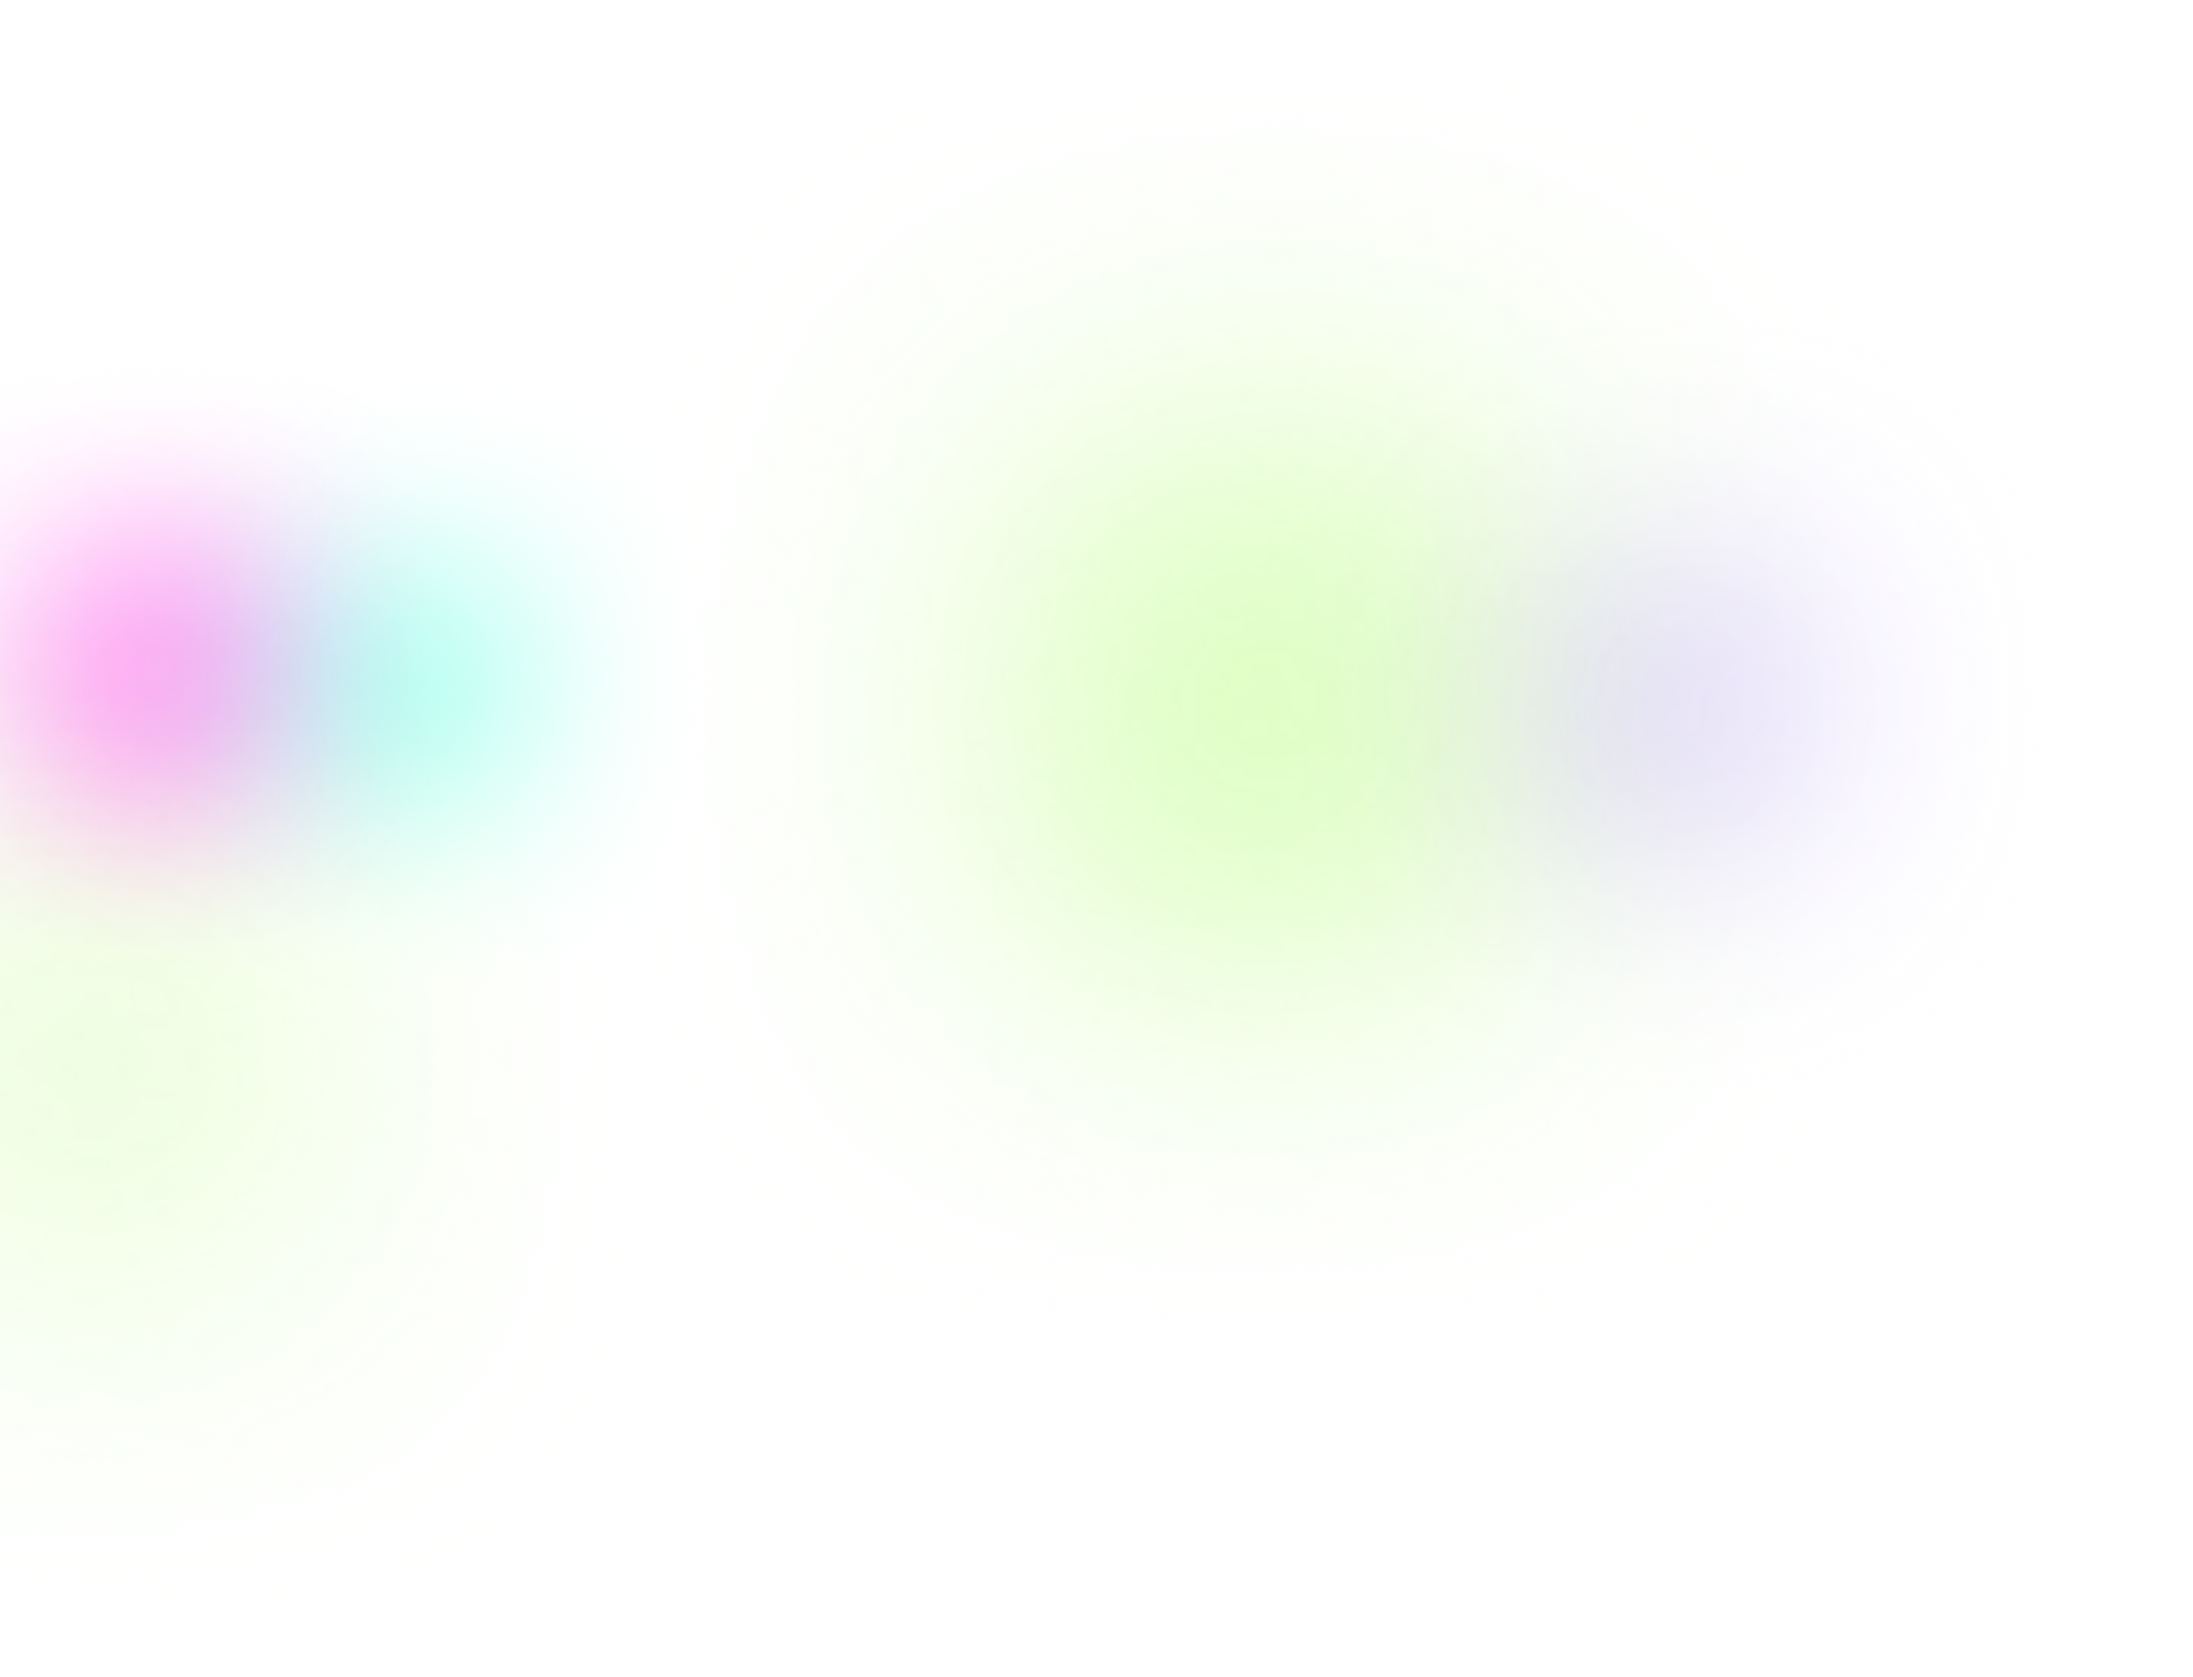
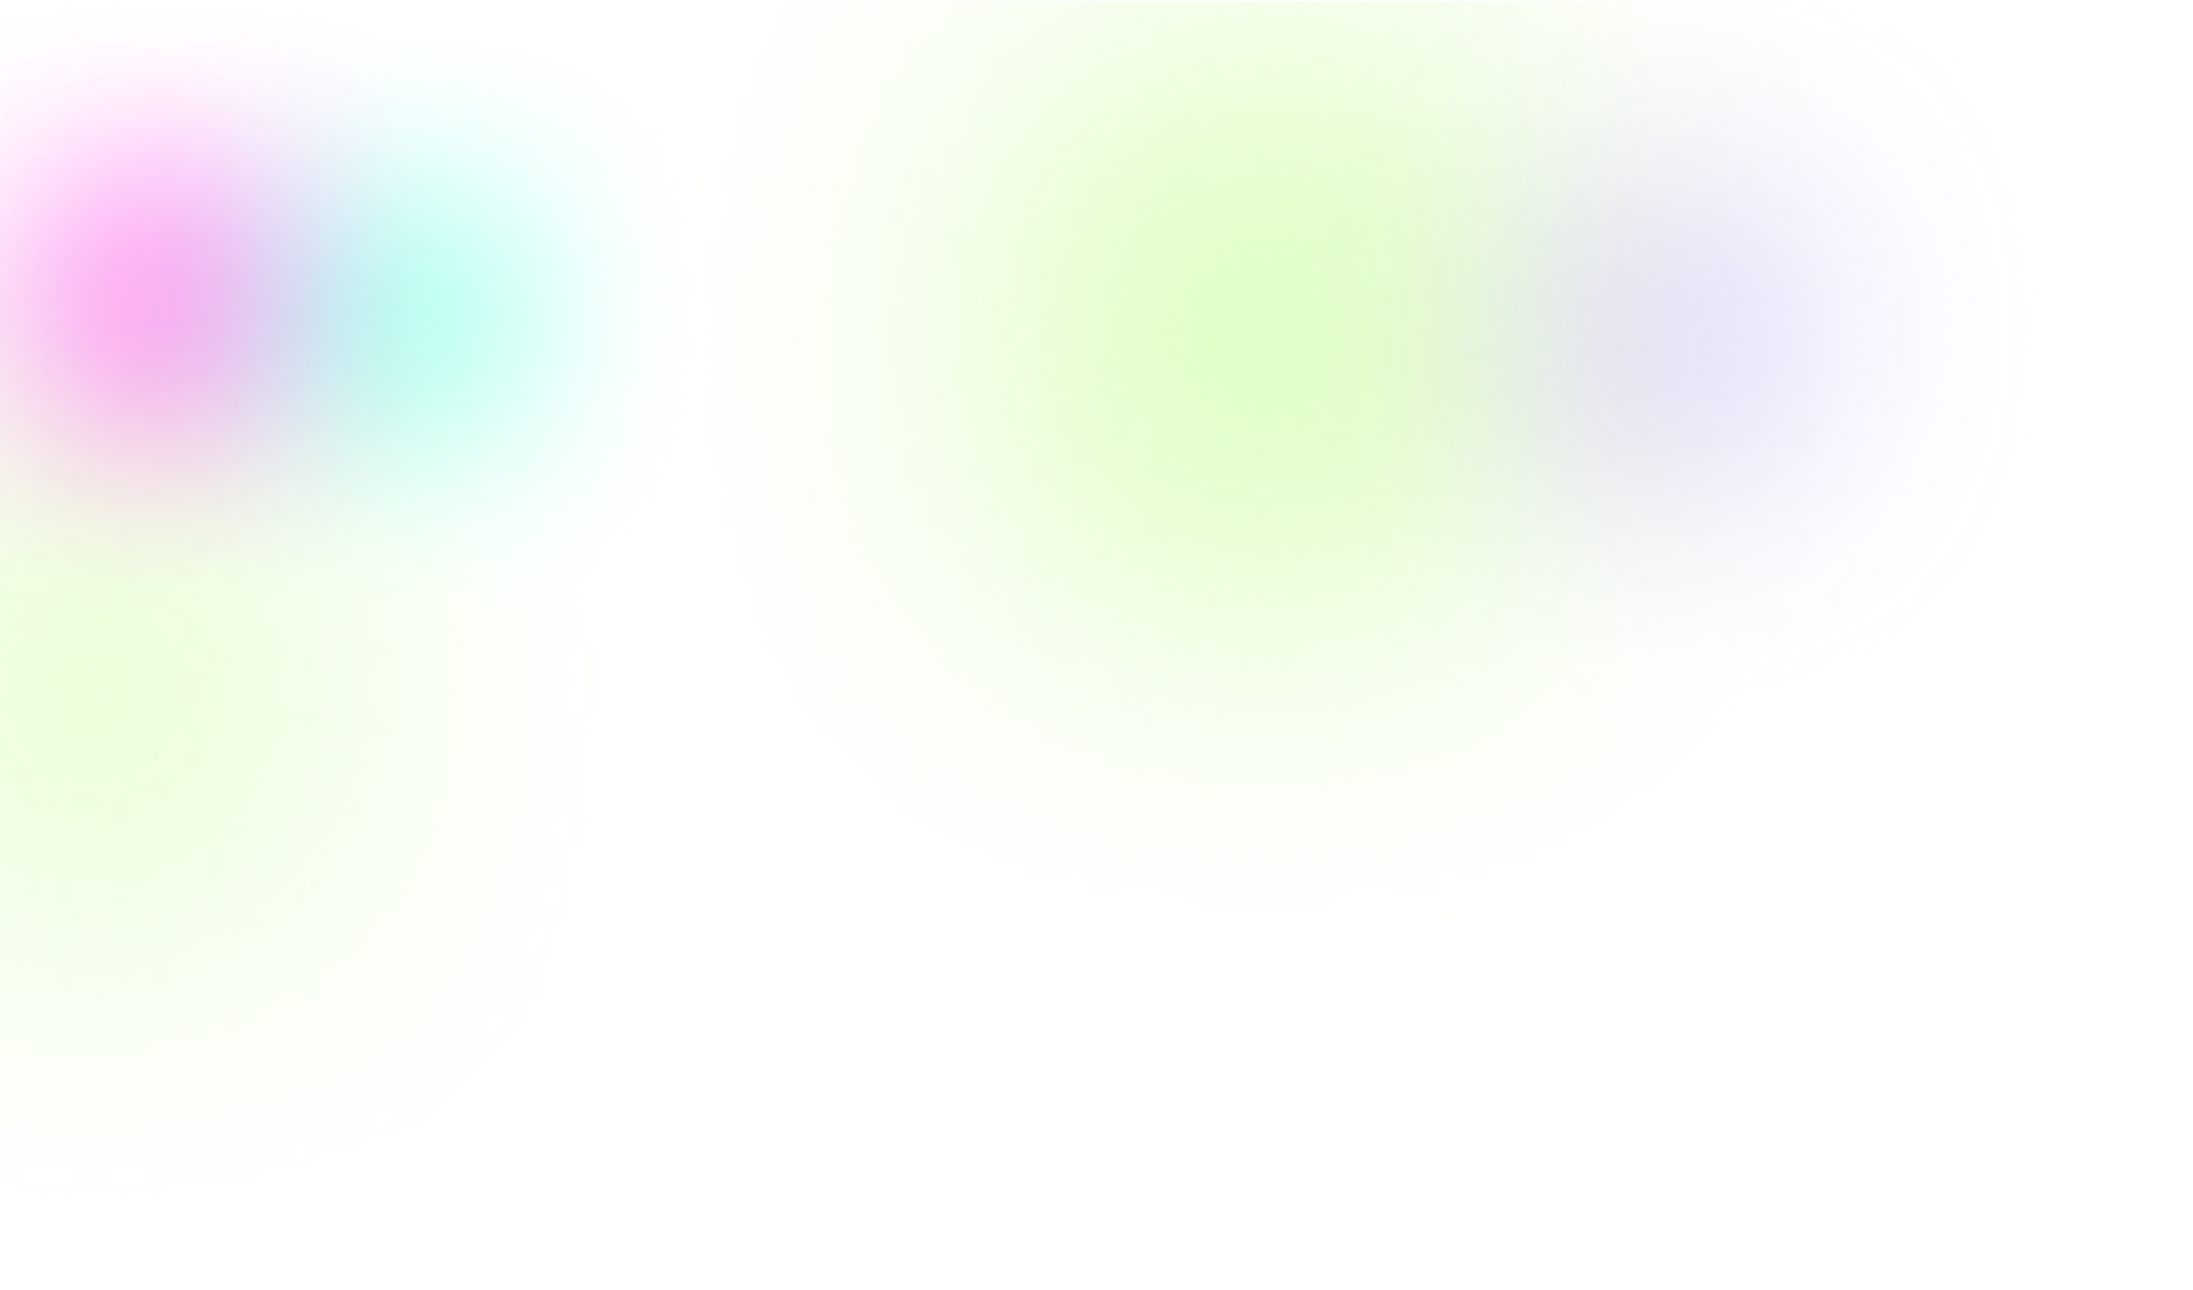
refactor: replaced bg images

diff --git a/src/widgets/Sections/Main/section-secure-our-business/section-secure-our-business.module.scss b/src/widgets/Sections/Main/section-secure-our-business/section-secure-our-business.module.scss
@@ -1,5 +1,4 @@
 .section {
-  // max-width: 1332px;
   margin: 0 auto;
   width: calc(100% - 96px);
 
@@ -48,19 +47,6 @@
         display: none;
       }
     }
-
-    // .chip {
-    //   font-size: 14px;
-    //   text-transform: uppercase;
-    //   border: 1px solid $border-color;
-    //   padding: 16px 18px;
-    //   border-radius: 10px;
-    //   line-height: 80%;
-    //   width: fit-content;
-    //   height: fit-content;
-    //   box-shadow: 0px 4px 18px rgba($black-color, 0.1);
-    //   position: absolute;
-    // }
 
     @include breakpoint(tablet) {
       max-width: 100%;

diff --git a/src/widgets/Sections/AboutUs/section-about/section-about.module.scss b/src/widgets/Sections/AboutUs/section-about/section-about.module.scss
@@ -1,8 +1,12 @@
 .section {
-  background-image: url("@/assets/images/section-our-mission/img-1.webp");
+  background-image: url("@/assets/images/section-about/img-2.webp");
+  background-repeat: no-repeat;
   background-size: cover;
   background-position: center;
-  background-repeat: no-repeat;
+
+  @include breakpoint(tablet) {
+    background-image: url("@/assets/images/section-about/img-mobile.webp");
+  }
 
   .section__inner {
     max-width: 1252px;

diff --git a/src/widgets/Sections/Main/section-multi-cards/section-multi-cards.module.scss b/src/widgets/Sections/Main/section-multi-cards/section-multi-cards.module.scss
@@ -1,8 +1,12 @@
 .section {
-  background-image: url("@/assets/images/section-our-mission/img-1.webp");
+  background-image: url("@/assets/images/section-multi-cards/img-1.webp");
   background-size: cover;
   background-position: center;
   background-repeat: no-repeat;
+
+  @include breakpoint(tablet) {
+    background-image: url("@/assets/images/section-multi-cards/img-mobile.webp");
+  }
 
   .section__inner {
     max-width: 1252px;

diff --git a/src/widgets/Sections/Login/section-login/section-login.module.scss b/src/widgets/Sections/Login/section-login/section-login.module.scss
@@ -1,10 +1,9 @@
 .container {
-  background-image: url("@/assets/images/section-faq/bg.webp");
+  background-image: url("@/assets/images/section-login/img-3.webp");
   background-size: cover;
   background-position: center;
   background-repeat: no-repeat;
   width: 100vw;
-
   padding-top: 200px;
   padding-bottom: 64px;
 

diff --git a/src/widgets/Sections/Main/section-secure-our-business/section-secure-our-business.tsx b/src/widgets/Sections/Main/section-secure-our-business/section-secure-our-business.tsx
@@ -41,7 +41,6 @@ export const SectionSecureOurBusiness = () => {
         to move money around the world.
       </h2>
       <div className={style.img}>
-        {/* <div className={style.chip}>Visa</div> */}
         <img
           style={elementStyle}
           src={img_2}
